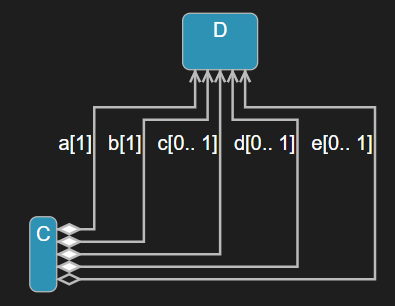
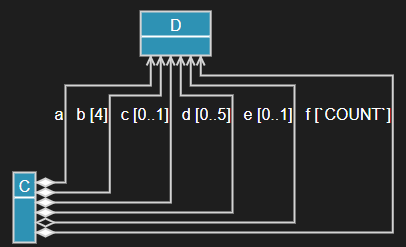
RIC-466: Doc update

Changed region(s): [[0.0304, 0.0283, 0.9722, 0.9919]]

diff --git a/docs-sources/art-lang.md b/docs-sources/art-lang.md
@@ -545,7 +545,7 @@ Parts can also be shown in a class diagram:
 
 ![](images/parts_class.png)
 
-In the above diagram the filled diamonds show that there is a strong life-time relationship between a `C` instance and the instances of `D` that are located in the fixed and optional parts `a`, `b`, `c` and `d`, while this is not the case for the instance located in the plugin part `d` as shown by the hollow diamond.
+In the above diagram the filled diamonds show that there is a strong life-time relationship between a `C` instance and the instances of `D` that are located in the fixed and optional parts `a`, `b`, `c`, `d` and `f`, while this is not the case for the instance located in the plugin part `e` as shown by the hollow diamond.
 
 ### Part with Capsule Factory
 If the capsule that types a part has a [capsule constructor](#capsule-constructor) with custom constructor parameters, you can define a capsule factory for the part. Such a capsule factory consists of two code snippets that define how an instance of that capsule should be created and destroyed. 
